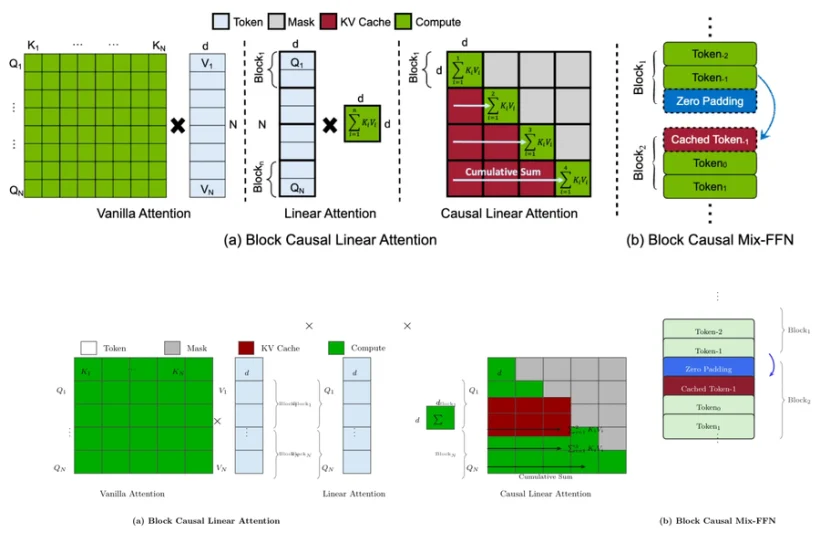
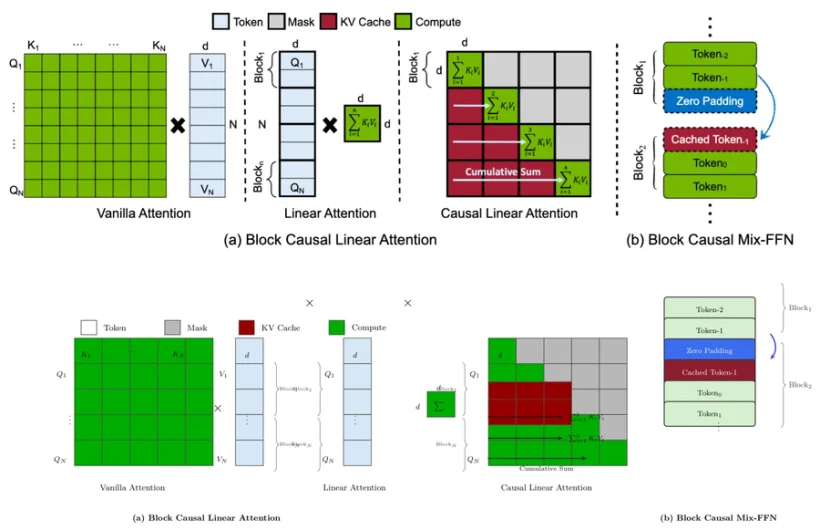
improve(replicas): 第三十九轮 —— 06 修 (b) 顶部省略号撑高画框
根因找到：(b) 面板的顶部省略号在 scope 内 y=4.33，绝对 y = 4.39+4.33 = 8.72，
而矩阵顶只有 5.81——它白白把画框撑高了 1.3 单位，导致第 2 行全是空白。

- 顶部省略号 4.33 → 3.05（贴近第一个 Token 块 2.60）
- 纵向 y 0.835 → 0.921 保持 AR

效果：
- 整图墨迹 0.264 → 0.293（原图 0.374），本轮累计 0.210 → 0.293
- 行密度 0.03/0.15/0.40/0.54/0.56/0.54/0.42/0.22
  原图   0.08/0.09/0.58/0.58/0.57/0.61/0.58/0.45
  第 3-5 行已基本对齐（0.54/0.56/0.54 vs 0.58/0.57/0.61）
- AR 3.24（原图 3.21，+0.9%）

diff --git a/tools/figlab/reps_tikz.py b/tools/figlab/reps_tikz.py
@@ -261,7 +261,7 @@ def fig05() -> str:
 
 def fig06() -> str:
     return r"""
-\begin{tikzpicture}[x=1cm, y=0.835cm]
+\begin{tikzpicture}[x=1cm, y=0.921cm]
 \tikzset{
   cell/.style={draw=black!70, line width=.7pt, inner sep=0pt},
   tok/.style={cell, fill=fxcolblue},
@@ -377,7 +377,7 @@ def fig06() -> str:
 
 % ================= (b) Block Causal Mix-FFN =================
 \begin{scope}[shift={(23.85,4.39)}]
-  \node[font=\small] at (1.89,4.33) {$\vdots$};
+  \node[font=\small] at (1.89,3.05) {$\vdots$};
 
   \foreach \i/\name/\fc/\tc in {
       0/{Token-2}/fxgrn/black,
